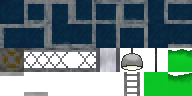
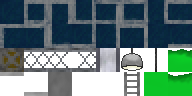
Added vent shaft center

Changed region(s): [[0.25, 0.75, 0.375, 1.0]]

diff --git a/source/level.py b/source/level.py
@@ -312,20 +312,20 @@ class Level:
 
             if tile_data['type'] == "Entity":
 
-                if tile_data['tile'] == 31:
+                if tile_data['tile'] == 32:
                     self.create_keypad((position[0]*24)+6, (position[1]*24)+5)
 
-                elif tile_data['tile'] == 30:
+                elif tile_data['tile'] == 31:
                     self.door_no += 1
                     self.create_door(position[0]*24, position[1]*24)
 
-                elif tile_data['tile'] == 28:
+                elif tile_data['tile'] == 29:
                     self.create_guard(position[0]*24, (position[1]*24)-24)
 
-                elif tile_data['tile'] == 32:
+                elif tile_data['tile'] == 33:
                     self.create_bomb(position[0]*24, position[1]*24)
 
-                elif tile_data['tile'] == 33:
+                elif tile_data['tile'] == 34:
                     self.create_hguard(position[0]*24, (position[1]*24)-24)
 
             elif tile_data['type'] == "Solid":

diff --git a/source/terrain.py b/source/terrain.py
@@ -16,8 +16,8 @@ class LevelData:
                    13619151, 14671839, 15724527, 16488,
                    38143, 13429247, 10081535, 16776960,
                    11776768, 65320, 2672680, 60159, 24027,
-                   16793, 12517631, 16711680, 5635840, 255,
-                   16727808, 6502, 6691072]
+                   16793, 11110, 12517631, 16711680, 5635840,
+                   255, 16727808, 6502, 6691072]
     type_colors = [0, 986895, 2039583, 3092271]
 
     def __init__(self, savefile, loadfile1, loadfile2):

diff --git a/source/platforms.py b/source/platforms.py
@@ -31,13 +31,15 @@ ACID = (144, 72, 24, 24)
 LADDER = (120, 72, 24, 24)
 VENT_TOP = (0, 72, 24, 24)
 VENT_BOTTOM = (24, 72, 24, 24)
+VENT = (48, 72, 24, 24)
 
 platforms = (
     GROUND1, GROUND2, GROUND3, GROUND4, GROUND5,
     GROUND6, GROUND7, GROUND8, GROUND9, GROUND10,
     GROUND11, GROUND12, GROUND13, GROUND14, GROUND15,
     GROUND16, CRATE, GIRDER1, GIRDER2, GIRDER3,
-    LAMP, CHAIN, ACID_TOP, ACID, LADDER, VENT_BOTTOM, VENT_TOP
+    LAMP, CHAIN, ACID_TOP, ACID, LADDER, VENT_BOTTOM,
+    VENT_TOP, VENT
 )
 
 
